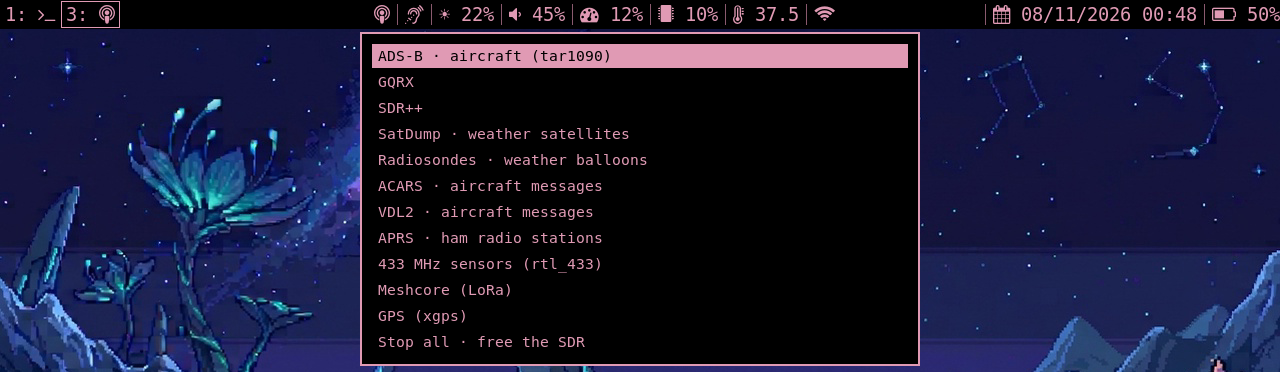
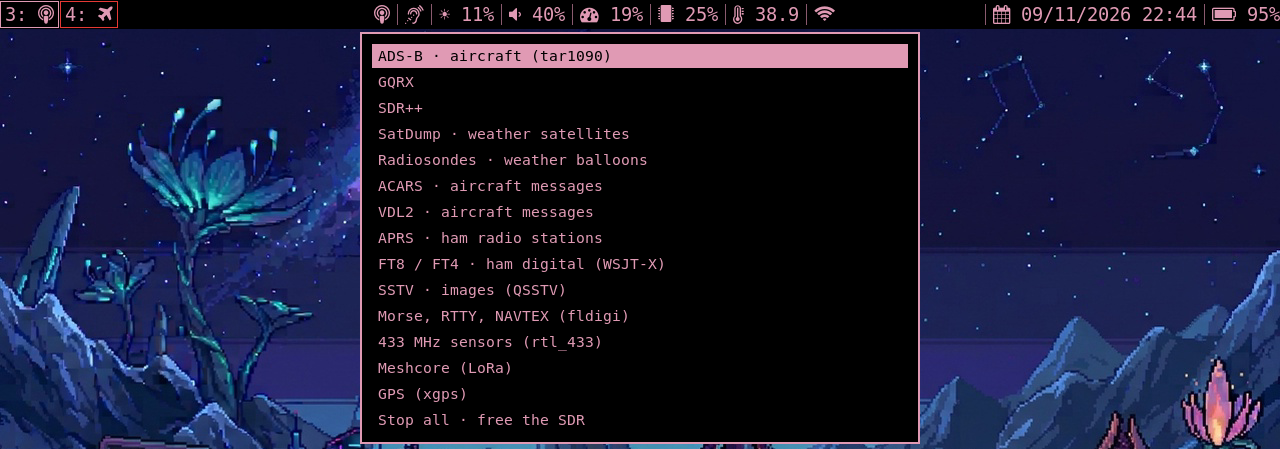
feat(radio): add FT8/FT4, SSTV and fldigi audio modes
New radio launcher entries that decode locally, without internet:
FT8 / FT4 (WSJT-X), SSTV (QSSTV) and Morse / RTTY / NAVTEX (fldigi).

- scripts/sdr-audio: PipeWire virtual audio cable "uBonsole SDR"
  (pw-loopback), made the default input while a mode runs; the
  previous default input is restored afterwards
- each entry asks for a frequency (or "Other frequency..."), rtl_fm
  demodulates it into the cable; below 24 MHz it uses direct sampling
- the launcher writes the decoders' settings before starting them:
  WSJT-X records from ubonsole_sdr_in, PSK Reporter off everywhere,
  fldigi on PulseAudio without its first-run wizard, QSSTV on PulseAudio
- switching mode or "Stop all" closes the decoder and removes the cable
- the ear block shows the running audio mode; decoders open on ws 3
- install-sdr-tools.sh installs WSJT-X 3.0.2 (official GitHub .deb),
  qsstv and fldigi
- README: launcher, dependencies, audio modes, offline use (GPS time
  with gpsd + chrony, AIO v2 RTC, SatDump TLE), troubleshooting

diff --git a/README.md b/README.md
@@ -71,9 +71,10 @@ takes any custom `#RRGGBB` (`--color '#A0C4FF'`): it warns when a color is too d
 | Battery | icon follows the level, red below 15 %, warning at 10 % | power menu |
 
 **Radio launcher** — ADS-B (readsb + tar1090), GQRX, SDR++, SatDump, radiosondes (auto_rx), ACARS,
-VDL2, APRS (direwolf), 433 MHz sensors (rtl_433), Meshcore, GPS. Only one app can use the SDR dongle,
-so the launcher stops the running one first. Text-mode decoders open in a terminal on workspace 3.
-Missing apps are flagged `(not installed)`.
+VDL2, APRS (direwolf), FT8 / FT4 (WSJT-X), SSTV (QSSTV), Morse / RTTY / NAVTEX (fldigi), 433 MHz
+sensors (rtl_433), Meshcore, GPS. Only one app can use the SDR dongle, so the launcher stops the
+running one first. Text-mode decoders open in a terminal on workspace 3. Missing apps are flagged
+`(not installed)`. Everything decodes locally: no internet connection is needed.
 
 **Power menu** — shows battery level, state and power draw, and toggles Wi-Fi, Bluetooth and the
 AIO v2 rails (GPS, LoRa, SDR, USB, via [aiov2_ctl](https://github.com/hackergadgets/aiov2_ctl)).
@@ -135,6 +136,10 @@ Optional, per radio app. A missing app is shown as `(not installed)` in the laun
 | Radiosondes | radiosonde_auto_rx, built from source in `~/src` | yes |
 | ADS-B | `readsb` (or `dump1090-fa`) + `tar1090` | no, see their install scripts |
 | Meshcore | `meshcore-console` ([meshcore-uconsole](https://github.com/cwill747/meshcore-uconsole)) | no |
+| FT8 / FT4 | WSJT-X, official `.deb` from [GitHub](https://github.com/WSJTX/wsjtx/releases) (3.0.2) | yes |
+| SSTV | `qsstv` | yes |
+| Morse, RTTY, NAVTEX | `fldigi` | yes |
+| Audio modes (the three above) | `rtl-sdr` (`rtl_fm`) + `pipewire-bin` (`pw-loopback`, `pw-cat`, `pw-dump`), PipeWire audio | yes |
 | GPS | `gpsd` + `gpsd-clients` (`xgps`) | no |
 
 `tools/install-sdr-tools.sh` targets Debian trixie on arm64 and builds part of the tools from
@@ -246,6 +251,39 @@ Reinstalling or updating keeps your values.
 - **Radiosondes**: auto_rx opens its web map on <http://localhost:5000>. Set your position in
   `~/src/radiosonde_auto_rx/auto_rx/station.cfg` first.
 - **APRS** is receive-only (`config/direwolf/sdr.conf` uses the placeholder call sign `N0CALL`).
+- **Audio modes** (FT8 / FT4, SSTV, fldigi): each entry asks for a frequency, then `rtl_fm`
+  demodulates it into a virtual audio cable "uBonsole SDR" (`scripts/sdr-audio`, PipeWire only),
+  which is the default input while the mode runs. WSJT-X, QSSTV and fldigi record from it without any
+  setting: the launcher writes their audio input before starting them, turns PSK Reporter off (nothing
+  is uploaded) and skips fldigi's first-run wizard. Switching mode or "Stop all" closes the decoder,
+  removes the cable and restores your default input. "Other frequency…" takes any frequency and
+  demodulation.
+- **HF** (below 24 MHz: FT8 on 20 / 40 m, SSTV on 14.230 MHz, NAVTEX, CW, RTTY) uses the R820T
+  direct sampling mode (`rtl_fm -E direct2`). It needs a long wire antenna; 2 m and 6 m work with
+  the usual antennas.
+- **FT8 / FT4 need an accurate clock** (within about 1 s). WSJT-X has no rig control here: the band
+  shown in its window is a label only, the SDR frequency is the one picked in the launcher.
+
+## Offline use
+
+Everything decodes locally. What needs a connection now and then:
+
+- **Clock** for FT8 / FT4: NTP when online; offline, the GPS of the AIO v2 board through gpsd and
+  chrony, plus the board's battery-backed RTC (PCF85063). This is system setup, not done by
+  `install.sh`:
+  1. Free the GPS serial port (see "GPS on the AIO v2 shows nothing" below).
+  2. `/etc/default/gpsd`: `DEVICES="/dev/ttyS0"` and `GPSD_OPTIONS="-n -s 9600"` (the u-blox module
+     talks at 9600 baud; gpsd's speed detection fails on this port).
+  3. `/etc/chrony/conf.d/gps.conf`: `refclock SHM 0 refid GPS precision 1e-1 offset 0.0 delay 0.2`
+     and `makestep 1 -1` (step the clock whenever the GPS gets a fix).
+  4. `/boot/firmware/config.txt`: `dtoverlay=i2c-rtc,pcf85063a` for the RTC, then reboot.
+  5. Power the GPS at boot: `sudo python3 ~/aiov2_ctl/aiov2_ctl.py --install` then
+     `aiov2_ctl --boot-rail GPS on`.
+- **SatDump** downloads satellite orbits (TLE) from CelesTrak when it starts and keeps them in
+  `~/.config/satdump/satdump_tles.txt`. They stay usable for one to two weeks: start SatDump once
+  with a connection (a phone hotspot is enough) before leaving.
+- **Maps** of tar1090 and auto_rx load their tiles online: offline, aircraft and balloons still show,
+  on an empty background.
 
 ## Troubleshooting
 
@@ -267,8 +305,14 @@ Reinstalling or updating keeps your values.
   `./install.sh --no-terminal-colors`.
 - **GPS on the AIO v2 shows nothing**: on some images the GPS UART (`/dev/ttyS0`) is also used by the
   serial console and a login prompt, so gpsd never gets the NMEA data (`journalctl` shows failed
-  logins like `$GNGGA…`). Remove `console=serial0,115200` from `/boot/firmware/cmdline.txt`, disable
-  `serial-getty@ttyS0`, point gpsd at `/dev/ttyS0` and reboot.
+  logins like `$GNGGA…`). Remove `console=serial0,115200` from `/boot/firmware/cmdline.txt`, mask
+  `serial-getty@ttyS0`, point gpsd at `/dev/ttyS0` at 9600 baud and reboot (see "Offline use").
+  Indoors, a first fix can take several minutes or never come: go near a window or outside.
+- **FT8 / FT4 decode nothing**: check the clock first (`chronyc tracking`; in WSJT-X, the DT column of
+  decoded stations should stay within ±1 s), then the antenna. On HF, direct sampling is weak with a
+  short antenna.
+- **WSJT-X shows "default (Not found)" as audio input**: start it from the radio launcher, which creates
+  the virtual cable first and selects `ubonsole_sdr_in`.
 - **A decoder says "usb_claim_interface error" or finds no device**: another app still holds the
   dongle (use "Stop all"), or `SDR_DEVICE` points to a dongle that is not plugged in.
 
@@ -278,7 +322,8 @@ Reinstalling or updating keeps your values.
 config/i3/config              i3 config
 config/i3/i3blocks.conf       status bar blocks
 config/i3/scripts/            block scripts, menus, launcher, rofi theme (common.sh: settings + helpers,
-                              gamepad-buttons: SELECT button listener)
+                              gamepad-buttons: SELECT button listener,
+                              sdr-audio: virtual audio cable for the audio decoders)
 config/i3/lang/<lang>.sh      UI strings (en is the fallback)
 config/i3/frequencies/        frequency cheat sheets, <region>/<lang>.txt, generated
 config/i3/wallpapers/         wallpaper
